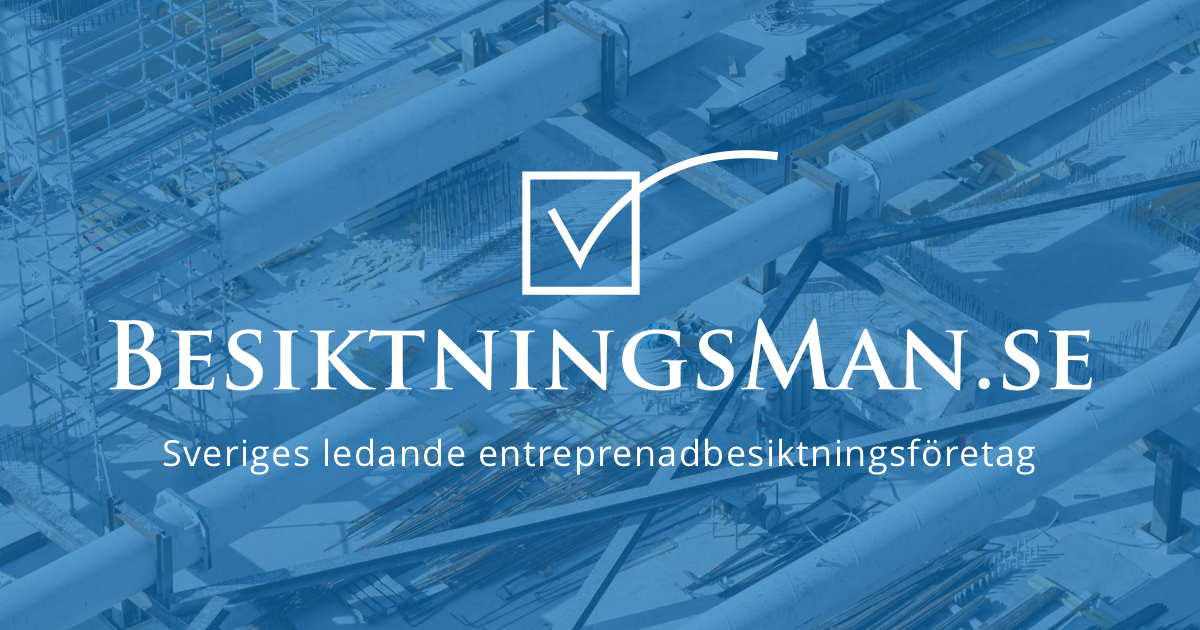
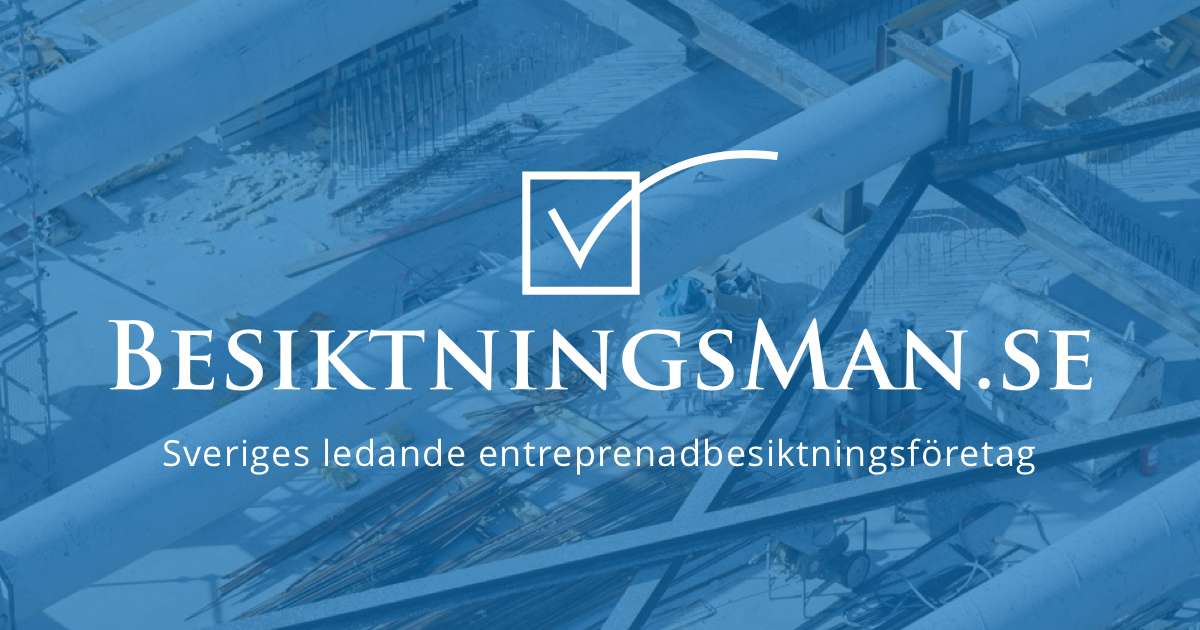
og image optimised

diff --git a/tjanster/entreprenad/index.html b/tjanster/entreprenad/index.html
@@ -19,7 +19,7 @@
 	<meta property="og:description" content="Vi erbjuder certifierade &amp; oberoende besiktningsmän för  både fastighet &amp; utemiljö. Du hittar oss bland annat i Stockholm, Malmö &amp; Göteborg. Kontakta oss" />
 	<meta property="og:url" content="http://www.besiktningsman.se/tjanster/entreprenad" />
 	<meta property="og:site_name" content="Besiktningsman.se | Sveriges ledande besiktningsföretag">
-	<meta property="og:image" content="../../assets/img/backgrounds/og_image.png" />
+	<meta property="og:image" content="../../assets/img/backgrounds/og_image.jpg" />
 	<meta name="twitter:card" content="Digital besiktning för lönsammare byggprojekt" />
 	<meta name="twitter:description" content="Vi erbjuder certifierade &amp; oberoende besiktningsmän för  både fastighet &amp; utemiljö. Du hittar oss bland annat i Stockholm, Malmö &amp; Göteborg. Kontakta oss" />
 	<meta name="twitter:title" content="Certifierad &amp; oberoende besiktningsman för fastighet &amp; utemiljö" />

diff --git a/tjanster/privat/index.html b/tjanster/privat/index.html
@@ -18,7 +18,7 @@
 	<meta property="og:description" content="Vi erbjuder certifierade &amp; oberoende besiktningsmän för  både fastighet &amp; utemiljö. Du hittar oss bland annat i Stockholm, Malmö &amp; Göteborg. Kontakta oss" />
 	<meta property="og:url" content="http://www.besiktningsman.se/tjanster/privat" />
 	<meta property="og:site_name" content="Besiktningsman.se | Sveriges ledande besiktningsföretag">
-	<meta property="og:image" content="../../assets/img/backgrounds/og_image.png" />
+	<meta property="og:image" content="../../assets/img/backgrounds/og_image.jpg" />
 	<meta name="twitter:card" content="Digital besiktning för lönsammare byggprojekt" />
 	<meta name="twitter:description" content="Vi erbjuder certifierade &amp; oberoende besiktningsmän för  både fastighet &amp; utemiljö. Du hittar oss bland annat i Stockholm, Malmö &amp; Göteborg. Kontakta oss" />
 	<meta name="twitter:title" content="Certifierad &amp; oberoende besiktningsman för fastighet &amp; utemiljö" />

diff --git a/tjanster/brf/index.html b/tjanster/brf/index.html
@@ -19,7 +19,7 @@
 	<meta property="og:description" content="Vi erbjuder certifierade &amp; oberoende besiktningsmän för  både fastighet &amp; utemiljö. Du hittar oss bland annat i Stockholm, Malmö &amp; Göteborg. Kontakta oss" />
 	<meta property="og:url" content="http://www.besiktningsman.se/tjanster/brf" />
 	<meta property="og:site_name" content="Besiktningsman.se | Sveriges ledande besiktningsföretag">
-	<meta property="og:image" content="../../assets/img/backgrounds/og_image.png" />
+	<meta property="og:image" content="../../assets/img/backgrounds/og_image.jpg" />
 	<meta name="twitter:card" content="Digital besiktning för lönsammare byggprojekt" />
 	<meta name="twitter:description" content="Vi erbjuder certifierade &amp; oberoende besiktningsmän för  både fastighet &amp; utemiljö. Du hittar oss bland annat i Stockholm, Malmö &amp; Göteborg. Kontakta oss" />
 	<meta name="twitter:title" content="Certifierad &amp; oberoende besiktningsman för fastighet &amp; utemiljö" />

diff --git a/om_oss/index.html b/om_oss/index.html
@@ -19,7 +19,7 @@
 	<meta property="og:description" content="Vi erbjuder certifierade &amp; oberoende besiktningsmän för  både fastighet &amp; utemiljö. Du hittar oss bland annat i Stockholm, Malmö &amp; Göteborg. Kontakta oss" />
 	<meta property="og:url" content="http://www.besiktningsman.se/om_oss" />
 	<meta property="og:site_name" content="Besiktningsman.se | Sveriges ledande besiktningsföretag">
-	<meta property="og:image" content="../assets/img/backgrounds/og_image.png" />
+	<meta property="og:image" content="../assets/img/backgrounds/og_image.jpg" />
 	<meta name="twitter:card" content="Digital besiktning för lönsammare byggprojekt" />
 	<meta name="twitter:description" content="Vi erbjuder certifierade &amp; oberoende besiktningsmän för  både fastighet &amp; utemiljö. Du hittar oss bland annat i Stockholm, Malmö &amp; Göteborg. Kontakta oss" />
 	<meta name="twitter:title" content="Certifierad &amp; oberoende besiktningsman för fastighet &amp; utemiljö" />

diff --git a/nyheter/index.html b/nyheter/index.html
@@ -19,7 +19,7 @@
 	<meta property="og:description" content="Nyheter från Besiktningsman.se" />
 	<meta property="og:url" content="http://www.besiktningsman.se/nyheter" />
 	<meta property="og:site_name" content="Besiktningsman.se | Sveriges ledande besiktningsföretag">
-	<meta property="og:image" content="../assets/img/backgrounds/og_image.png" />
+	<meta property="og:image" content="../assets/img/backgrounds/og_image.jpg" />
 	<meta name="twitter:card" content="Digital besiktning för lönsammare byggprojekt" />
 	<meta name="twitter:description" content="Vi erbjuder certifierade &amp; oberoende besiktningsmän för  både fastighet &amp; utemiljö. Du hittar oss bland annat i Stockholm, Malmö &amp; Göteborg. Kontakta oss" />
 	<meta name="twitter:title" content="Certifierad &amp; oberoende besiktningsman för fastighet &amp; utemiljö" />

diff --git a/karriar/index.html b/karriar/index.html
@@ -19,7 +19,7 @@
 	<meta property="og:description" content="Starta din nya karriär hos oss" />
 	<meta property="og:url" content="http://www.besiktningsman.se/" />
 	<meta property="og:site_name" content="Besiktningsman.se | Sveriges ledande besiktningsföretag">
-	<meta property="og:image" content="../assets/img/backgrounds/og_image.png" />
+	<meta property="og:image" content="../assets/img/backgrounds/og_image.jpg" />
 	<meta name="twitter:card" content="Digital besiktning för lönsammare byggprojekt" />
 	<meta name="twitter:description" content="Vi erbjuder certifierade &amp; oberoende besiktningsmän för  både fastighet &amp; utemiljö. Du hittar oss bland annat i Stockholm, Malmö &amp; Göteborg. Kontakta oss" />
 	<meta name="twitter:title" content="Certifierad &amp; oberoende besiktningsman för fastighet &amp; utemiljö" />

diff --git a/kontakt/index.html b/kontakt/index.html
@@ -19,7 +19,7 @@
 	<meta property="og:description" content="Kontakta oss" />
 	<meta property="og:url" content="http://www.besiktningsman.se/kontakt" />
 	<meta property="og:site_name" content="Besiktningsman.se | Sveriges ledande besiktningsföretag">
-	<meta property="og:image" content="../assets/img/backgrounds/og_image.png" />
+	<meta property="og:image" content="../assets/img/backgrounds/og_image.jpg" />
 	<meta name="twitter:card" content="Digital besiktning för lönsammare byggprojekt" />
 	<meta name="twitter:description" content="Vi erbjuder certifierade &amp; oberoende besiktningsmän för  både fastighet &amp; utemiljö. Du hittar oss bland annat i Stockholm, Malmö &amp; Göteborg. Kontakta oss" />
 	<meta name="twitter:title" content="Certifierad &amp; oberoende besiktningsman för fastighet &amp; utemiljö" />

diff --git a/index.html b/index.html
@@ -18,7 +18,7 @@
 	<meta property="og:description" content="Vi erbjuder certifierade &amp; oberoende besiktningsmän för  både fastighet &amp; utemiljö. Du hittar oss bland annat i Stockholm, Malmö &amp; Göteborg. Kontakta oss" />
 	<meta property="og:url" content="http://www.besiktningsman.se/" />
 	<meta property="og:site_name" content="Besiktningsman.se | Sveriges ledande besiktningsföretag">
-	<meta property="og:image" content="assets/img/backgrounds/og_image.png" />
+	<meta property="og:image" content="assets/img/backgrounds/og_image.jpg" />
 	<meta property="og:image:width" content="1200">
 	<meta property="og:image:height" content="630">
 	<meta name="twitter:card" content="Digital besiktning för lönsammare byggprojekt" />
